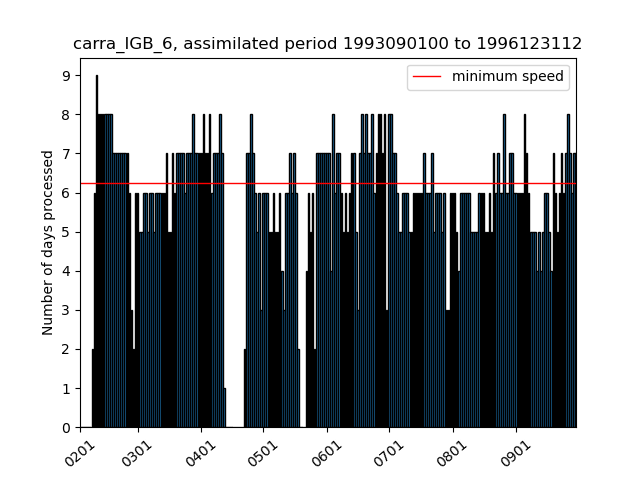
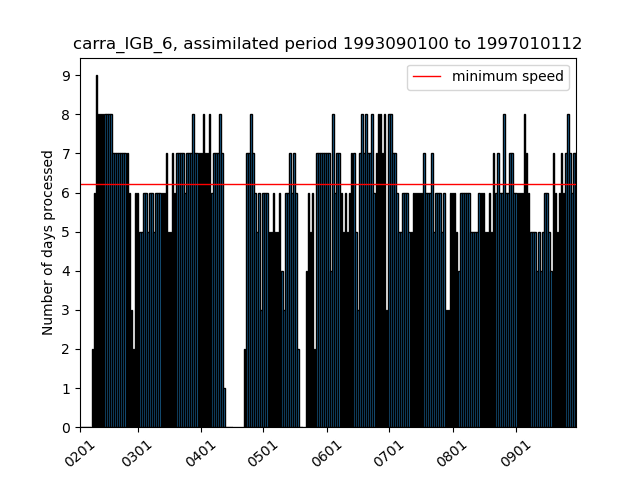
update repo

Changed region(s): [[0.125, 0.375, 0.9062, 0.4062], [0.7812, 0.0625, 0.875, 0.125]]

diff --git a/current_state_sims.html b/current_state_sims.html
@@ -2,18 +2,18 @@
 <h1>Estimated completion dates and simulation speeds</h1>
 <p>Stream (production) completion date based on 30d (7d) moving avg speed</p>
 <p><a href="https://docs.google.com/document/d/1zDKAxuEXYnWWYzT3SZnZwY5WW8nodUMeYRjAGz46coc/edit#">Details of the calculation of the completion dates</a></p>
-<p>Last update: 2021/10/01 12:42:44 UTC</p>
-<p>Total progress CARRA: 99.33% <a href="https://hirlam.org/portal/CARRA/Progress/GanntChart_CARRA.html"> (see detailed progress meter in Gantt chart) </a></p>
+<p>Last update: 2021/10/01 18:42:00 UTC</p>
+<p>Total progress CARRA: 99.44% <a href="https://hirlam.org/portal/CARRA/Progress/GanntChart_CARRA.html"> (see detailed progress meter in Gantt chart) </a></p>
 <p>Total progress PANARCTIC: 91.67% </p>
 <p><a href="https://hirlam.org/portal/CARRA/Progress/waiting_times.html"> Queue waiting times for all streams</a></p>
 <p><a href="https://hirlam.org/portal/CARRA/Progress/mars_status.html"> MARS archive throughput </a></p>
 <html><table border="1"><tr><th>expId</th><th>Current assimilated date</th><th>End date of stream </th><th> Completion date</th><th> Avg. throughput (7d) </th> <th>Avg. throughput (30d) </th> <th> Remarks</tr>
-<tr bgcolor="#FFFF00"><td>carra_NE_3</td><td>2021063000</td><td>2021063021</td><td>2021100112</td><td>(0.0) days/day</td><td>(3.57) days/day</td><td>Inactive the past week</tr>
+<tr bgcolor="#FFFF00"><td>carra_NE_3</td><td>2021063000</td><td>2021063021</td><td>2021100118</td><td>(0.0) days/day</td><td>(3.57) days/day</td><td>Inactive the past week</tr>
 <tr bgcolor="#33FF38"><td>carra_NE_4</td><td>1992090100</td><td>1992083021</td><td>Finished on 20210824</td><td>(0.0) days/day</td><td>(0.0) days/day</td><td>Stream finished</tr>
 <tr bgcolor="#33FF38"><td>carra_NE_5</td><td>1994090100</td><td>1994083021</td><td>Finished on 20210824</td><td>(0.0) days/day</td><td>(0.0) days/day</td><td>Stream finished</tr>
-<tr bgcolor="#33FF38"><td>carra_NE_6</td><td>1997070100</td><td>1997063021</td><td>2021100105</td><td>(0.0) days/day</td><td>(3.3) days/day</td><td>Stream finished</tr>
-<tr bgcolor="#FFFF00"><td>carra_IGB_3</td><td>2021063000</td><td>2021063021</td><td>2021100112</td><td>(0.0) days/day</td><td>(3.43) days/day</td><td>Inactive the past week</tr>
-<tr bgcolor="#33FF38"><td>carra_IGB_4</td><td>1992090100</td><td>1992083021</td><td>2021093000</td><td>(0.0) days/day</td><td>(1.33) days/day</td><td>Stream finished</tr>
-<tr bgcolor="#33FF38"><td>carra_IGB_5</td><td>1994090100</td><td>1994083021</td><td>2021100102</td><td>(1.29) days/day</td><td>(4.8) days/day</td><td>Stream finished</tr>
-<tr bgcolor="#FFA500"><td>carra_IGB_6</td><td>1996123112</td><td>1997063021</td><td>2021110100</td><td>(6.86) days/day</td><td>(5.93) days/day</td><td>Completion date after project end (20211031)</tr>
-<tr bgcolor="#FFFFFF"><td>carra_pan</td><td>2018081300</td><td>2018090100</td><td>2021100701</td><td>(3.86) days/day</td><td>(3.43) days/day</td><td></tr>
+<tr bgcolor="#33FF38"><td>carra_NE_6</td><td>1997070100</td><td>1997063021</td><td>2021100111</td><td>(0.0) days/day</td><td>(3.3) days/day</td><td>Stream finished</tr>
+<tr bgcolor="#FFFF00"><td>carra_IGB_3</td><td>2021063000</td><td>2021063021</td><td>2021100118</td><td>(0.0) days/day</td><td>(3.43) days/day</td><td>Inactive the past week</tr>
+<tr bgcolor="#33FF38"><td>carra_IGB_4</td><td>1992090100</td><td>1992083021</td><td>2021093006</td><td>(0.0) days/day</td><td>(1.33) days/day</td><td>Stream finished</tr>
+<tr bgcolor="#33FF38"><td>carra_IGB_5</td><td>1994090100</td><td>1994083021</td><td>2021100108</td><td>(1.29) days/day</td><td>(4.8) days/day</td><td>Stream finished</tr>
+<tr bgcolor="#FFA500"><td>carra_IGB_6</td><td>1997010112</td><td>1997063021</td><td>2021110102</td><td>(6.86) days/day</td><td>(5.93) days/day</td><td>Completion date after project end (20211031)</tr>
+<tr bgcolor="#FFFFFF"><td>carra_pan</td><td>2018081312</td><td>2018090100</td><td>2021100707</td><td>(3.86) days/day</td><td>(3.43) days/day</td><td></tr>
